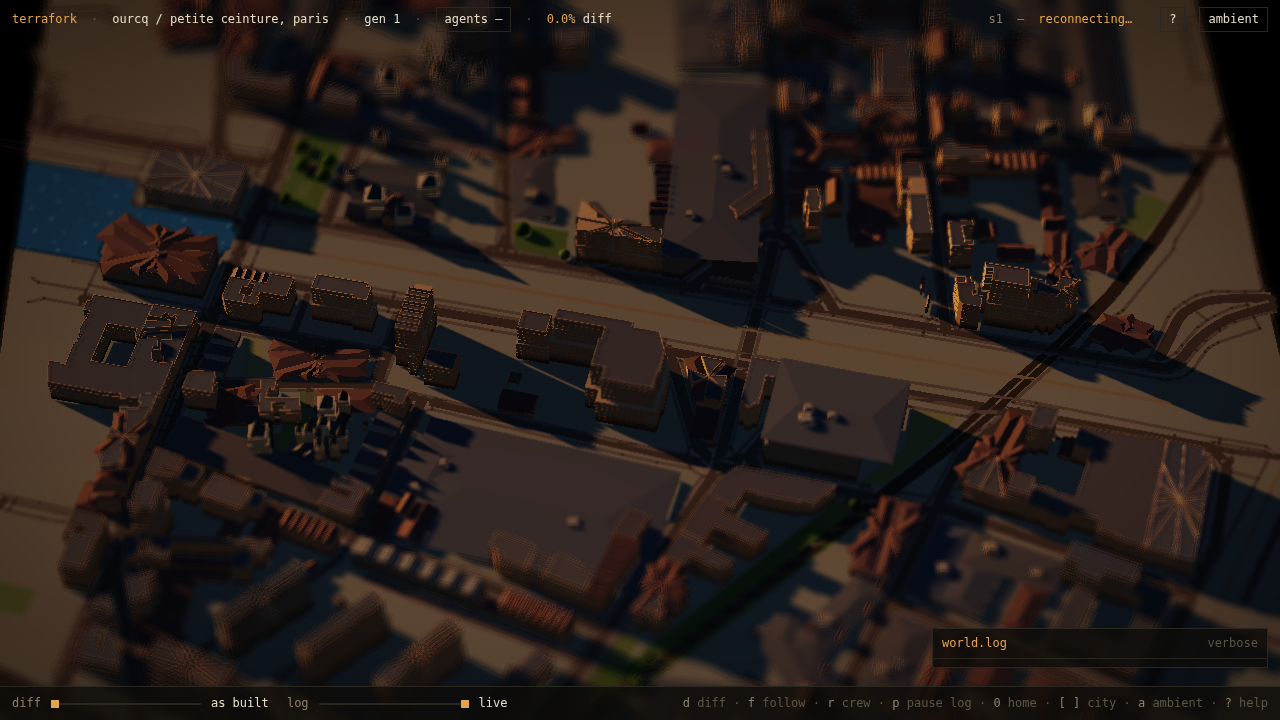
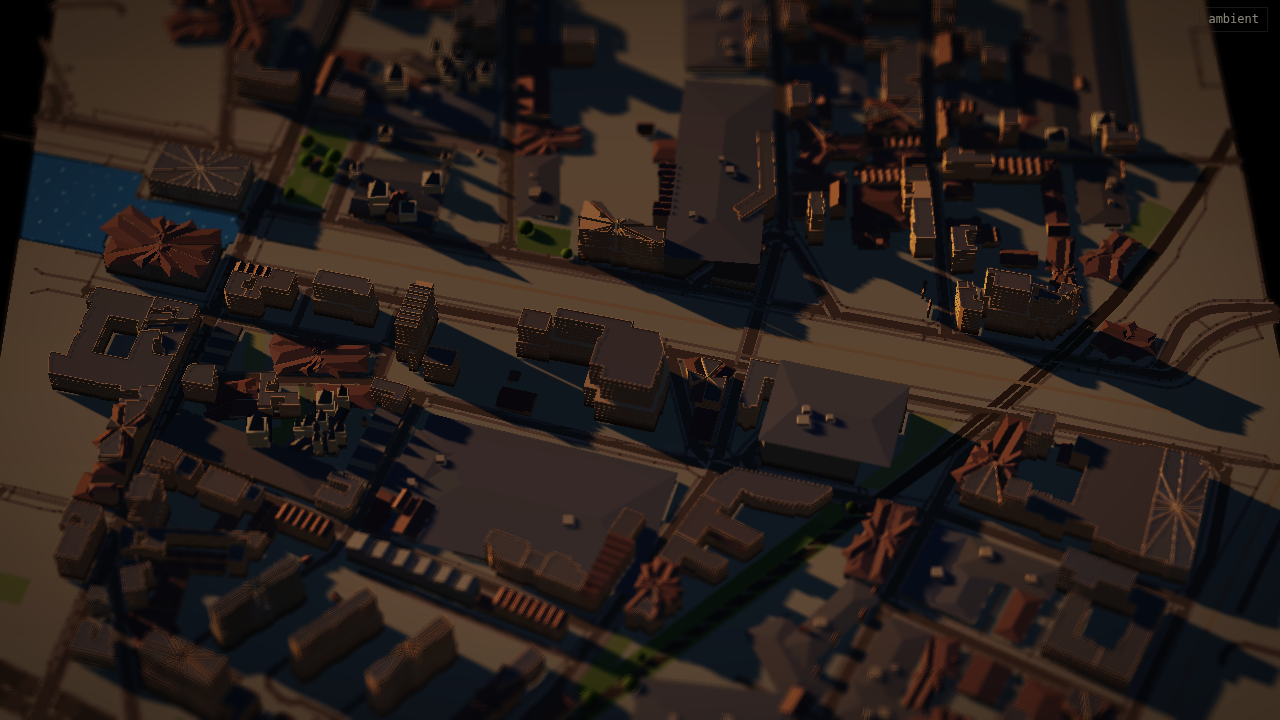
§50.2: london's hour comes down a stop
The first authored overcast rig was right in character and too high in
value — the plate read near-white and the brick lost its voice, which is a
bright day, not an overcast one. Fill 3.5 -> 2.5, sky and ground fill cooled
and darkened, ground albedo 0.92 -> 0.74. The terraces hold their brick, the
shadows stay soft and directionless, and the lit windows read as small warm
marks along the rows.

Capture set re-shot under dof r2 (the earlier five were taken with the old
9px blur): tools/watch/evidence/50-2.

Claude-Session: https://claude.ai/code/session_01M4JMEnwzuErti2Qo1D2vbe

diff --git a/packages/core/src/palette.ts b/packages/core/src/palette.ts
@@ -276,15 +276,15 @@ export const CITY_HOUR: Record<string, CityHour> = {
    * afternoon is when the lights are already on inside.
    */
   'london-deptford': {
-    sun: '#d8dee4',
-    sunIntensity: 2.35,
-    fillSky: '#b9c4cd',
-    fillGround: '#8e8d88',
-    fillIntensity: 3.5,
-    coolAmbient: '#6a7684',
-    coolAmbientIntensity: 0.75,
+    sun: '#d3dae2',
+    sunIntensity: 2.5,
+    fillSky: '#a4b1bd',
+    fillGround: '#7e7d78',
+    fillIntensity: 2.5,
+    coolAmbient: '#5d6975',
+    coolAmbientIntensity: 0.7,
     elevationDeg: 42,
-    groundScale: 0.92,
+    groundScale: 0.74,
     night: 0.26,
     windowWarm: '#ffcb8c',
   },
